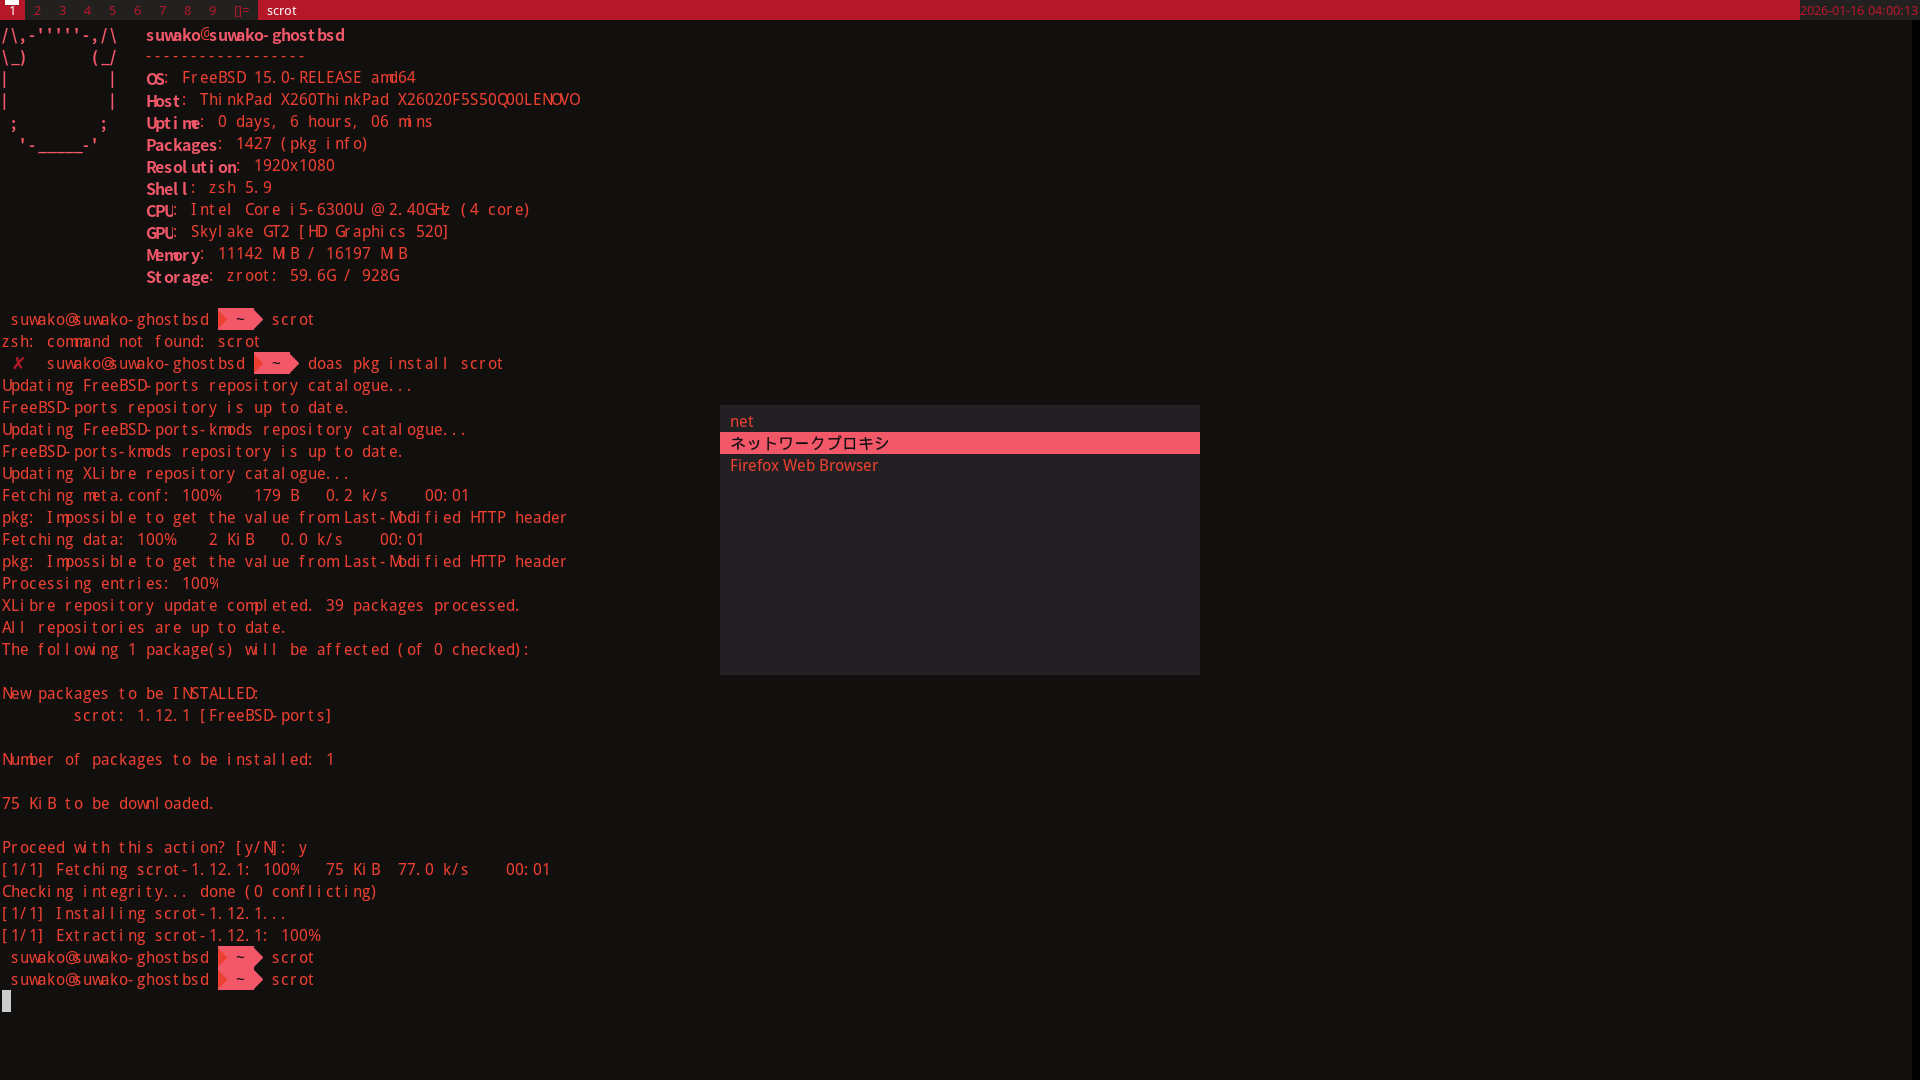
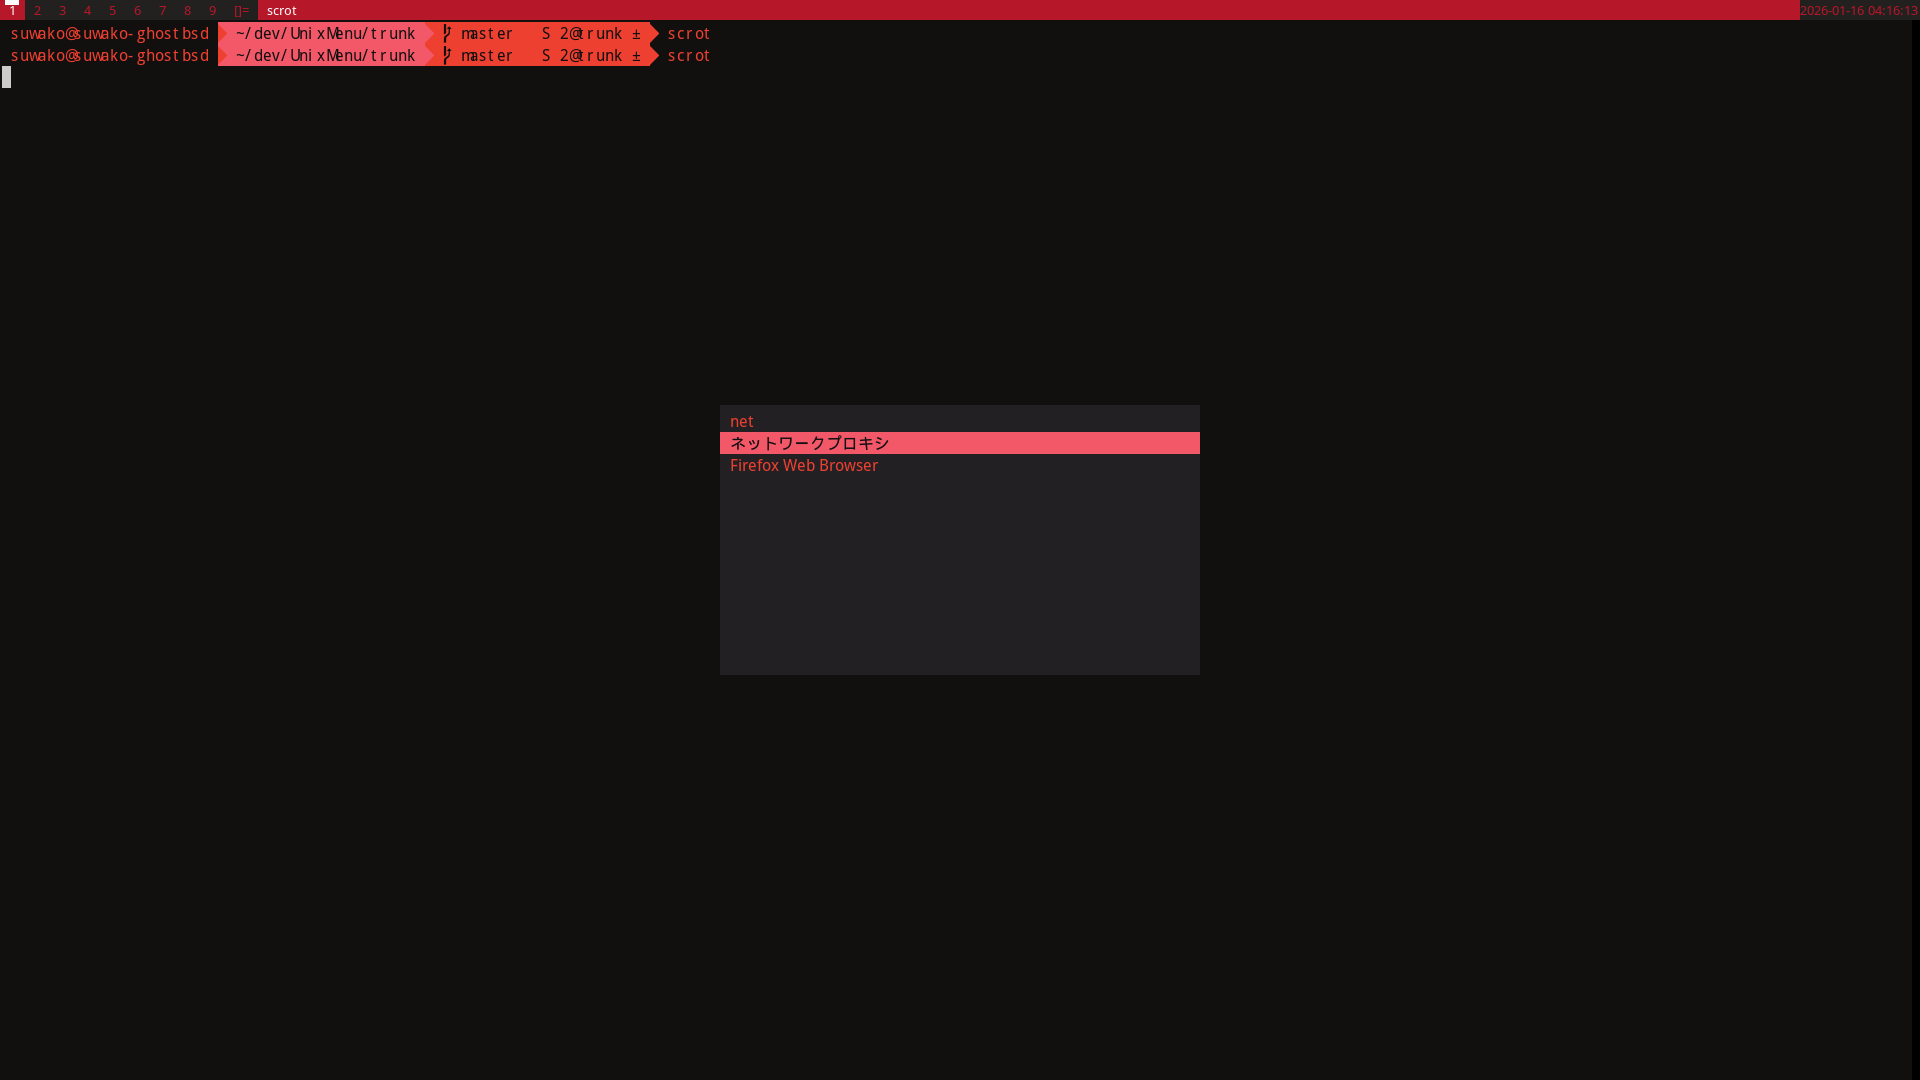
クラス名の修正

Changed region(s): [[0.0, 0.0, 0.375, 0.6111], [0.0, 0.7333, 0.2188, 0.9167], [0.0312, 0.6417, 0.1562, 0.6722]]

diff --git a/main.c b/main.c
@@ -17,6 +17,7 @@ Visual *visual;
 
 const char *sofname = "um";
 const char *version = "0.2.1";
+const char *disname = "Unix Menu";
 
 int main() {
   Display *display;
@@ -56,6 +57,20 @@ int main() {
 
   XChangeProperty(display, window, net_wm_window_type, XA_ATOM, 32,
       PropModeReplace, (unsigned char *)&dialog, 1);
+
+  XStoreName(display, window, disname);
+  Atom net_wm_name = XInternAtom(display, "_NET_WM_NAME", False);
+  XChangeProperty(display, window, net_wm_name,
+      XInternAtom(display, "UTF8_STRING", False), 8,
+      PropModeReplace, (unsigned char *)disname, strlen(disname));
+
+  XClassHint *classHint = XAllocClassHint();
+  if (classHint) {
+    classHint->res_name = "um";
+    classHint->res_class = "UnixMenu";
+    XSetClassHint(display, window, classHint);
+    XFree(classHint);
+  }
 
   XSetWindowBackground(display, window, BGCOL);
 

diff --git a/CHANGELOG.md b/CHANGELOG.md
@@ -1,6 +1,7 @@
 # 0.2.1 (2026/01/16)
 * DWMでうまく表示する様に
 * あたしのDWMテーマに合わせる
+* クラス名の修正
 
 # 0.2.0 (2025/07/07)
 * .desktopファイルがなければ、$PATHから実効してみる様に
